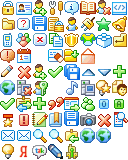
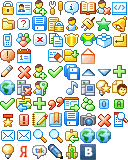
FIX: * пустые сообщения пр ивыключенном PEP * загрузка звука привлечения внимания * высота CheckBox * пропадающие сообщения в чате
ADD:
* профиль вконтакте

Changed region(s): [[0.625, 0.875, 0.75, 1.0]]

diff --git a/src/Client/Contact.java b/src/Client/Contact.java
@@ -362,11 +362,6 @@ public class Contact extends IconTextElement{
         
         chatInfo.addMessage(m);
         
-        if (group.type!=Groups.TYPE_TRANSP && group.type!=Groups.TYPE_SEARCH_RESULT) {
-          boolean allowLog = (origin<Constants.ORIGIN_GROUPCHAT);
-          if (origin!=Constants.ORIGIN_GROUPCHAT && this instanceof MucContact) allowLog=false;
-          if(allowLog) getML().storeMessage(m);
-        }
         
         if(chatInfo.opened || m.messageType == Constants.MESSAGE_TYPE_OUT) chatInfo.reEnumCounts();
         if (first_msgreplace){
@@ -374,12 +369,18 @@ public class Contact extends IconTextElement{
             if (null != messageList) {
                 getML().resetMessages();
                 getML().redraw();
-            } return;
+            } 
+        } else {
+		if (null != messageList) {
+		    getML().addMessage(m);
+		} else if (!chatInfo.isOnlyStatusMessage()) {
+		    getML().resetMessages();
+		}
         }
-        if (null != messageList) {
-            getML().addMessage(m);
-        } else if (!chatInfo.isOnlyStatusMessage()) {
-            getML().resetMessages();
+        if (group.type!=Groups.TYPE_TRANSP && group.type!=Groups.TYPE_SEARCH_RESULT) {
+          boolean allowLog = (origin<Constants.ORIGIN_GROUPCHAT);
+          if (origin!=Constants.ORIGIN_GROUPCHAT && this instanceof MucContact) allowLog=false;
+          if(allowLog) getML().storeMessage(m);
         }
     }
 

diff --git a/src/Account/AccountSelect.java b/src/Account/AccountSelect.java
@@ -79,6 +79,7 @@ public class AccountSelect
         Command cmdGTalk_HTTPS=new Command("Gtalk HTTPS", Command.SCREEN,16);            
         Command cmdLj=new Command("LiveJournal", Command.SCREEN,17);   
         Command cmdQip=new Command("QIP", Command.SCREEN,18);
+        Command cmdVk=new Command("Вконтакте", Command.SCREEN,19);
         
     
     Command cmdEdit;
@@ -181,6 +182,7 @@ public class AccountSelect
 //#            addInCommand(1,cmdGTalk_HTTPS); cmdGTalk_HTTPS.setImg(0x92);           
 //#            addInCommand(1,cmdLj); cmdLj.setImg(0x93);
 //#            addInCommand(1,cmdQip); cmdQip.setImg(0x94);
+//#            addInCommand(1,cmdVk); cmdVk.setImg(0x95);
 //#endif          
           
         if (accountList.isEmpty()==true) {
@@ -249,6 +251,9 @@ public class AccountSelect
 //#         }
 //#         if (c==cmdQip) {
 //#           new AccountForm(display, this, this, null,5,false,null);
+//#         }          
+//#         if (c==cmdVk) {
+//#           new AccountForm(display, this, this, null,7,false,null);
 //#         }          
 //#else   
         if (c==cmdAdd) {

diff --git a/src/Account/AccountForm.java b/src/Account/AccountForm.java
@@ -95,6 +95,7 @@ public class AccountForm
     private static final byte LJ_PROFILE=4;    
     private static final byte QIP_PROFILE=5;
     private static final byte GTALK_HTTPS_PROFILE=6;        
+    private static final byte VK_PROFILE=7;
     
     /** Creates a new instance of AccountForm */
 
@@ -147,6 +148,9 @@ public class AccountForm
                 break;
             case QIP_PROFILE:     
                 server="qip.ru";
+                break;
+            case VK_PROFILE:     
+                server="vk.com";
                 break;
           }
         }else{
@@ -330,6 +334,12 @@ public class AccountForm
                 break;
             case QIP_PROFILE:  
                 ip_box = "webim.qip.ru";
+                sslbox_ = false;
+                plainPwdbox_ = false;
+                compressionBox_ = true;                
+                break;
+            case VK_PROFILE:  
+                ip_box = "vkmessenger.com";
                 sslbox_ = false;
                 plainPwdbox_ = false;
                 compressionBox_ = true;                

diff --git a/src/xmpp/extensions/PepListener.java b/src/xmpp/extensions/PepListener.java
@@ -50,10 +50,10 @@
 //#    
 //#     StaticData sd = StaticData.getInstance();
 //#     Config cf = Config.getInstance();
-//#     
+//# 
 //#     /** Creates a new instance of PepListener */
 //#     public PepListener() { }
-//#     
+//#   
 //#     public void addBlockListener() {
 //#         sd.roster.theStream.addBlockListener(instance);
 //#     }
@@ -245,7 +245,7 @@
 //#                         c.pepTuneText=tune_.toString();
 //#                         msg = tune_.toString();
 //#                     }
-//#                     if(c.getChatInfo().getMessageCount()>0) c.addMessage(new Msg(Constants.MESSAGE_TYPE_PRESENCE, from, type, msg));
+//#                     if(msg!=null && msg.length()>0 && c.getChatInfo().getMessageCount()>0) c.addMessage(new Msg(Constants.MESSAGE_TYPE_PRESENCE, from, type, msg));
 //#                 }
 //#             }
 //#         //}

diff --git a/src/Client/ContactMessageList.java b/src/Client/ContactMessageList.java
@@ -92,7 +92,9 @@ public final class ContactMessageList extends VirtualList implements MenuListene
        return recordStore;
     }
     public void storeMessage(Msg msgObj) {
-       HistoryStorage.addText(contact, msgObj, this);
+	synchronized (this) {
+           HistoryStorage.addText(contact, msgObj, this);
+       }
     }
     public void getRmsData(int type, RecordStore rs){
       switch(type){
@@ -529,13 +531,7 @@ public final class ContactMessageList extends VirtualList implements MenuListene
     
     public void eventLongOk(){
         super.eventLongOk();
-//#ifndef WMUC
-        if (contact instanceof MucContact && contact.origin==Constants.ORIGIN_GROUPCHAT) {
-            checkOffline(); 
-            return;
-        }
-//#endif
-        keyGreen();
+	answer();
     }
     
     protected void keyClear(){

diff --git a/src/ui/controls/form/CheckBox.java b/src/ui/controls/form/CheckBox.java
@@ -159,20 +159,24 @@ public class CheckBox
     }    
 
     public int getVHeight(){ 
+        int h=0;
         Vector str=(Vector)checkBox.elementAt(0);
         if(state){
            if (str.size()<1) {
-             return fontHeight;
+             h = fontHeight;
            }else{
               if(toString().indexOf("%")>-1){
-                return fontHeight*(str.size() + 1);  
+                h = fontHeight*(str.size() + 1);  
               }else{
-                return fontHeight;   
+                h= fontHeight;   
               }
            }            
         }else{
-           return fontHeight;
+           h = fontHeight;
         }
+	if (h<il.getHeight()) h=il.getHeight();
+	if (h<8) h=8; //TODO: min height!!!
+	return h;
     }
 
     public boolean getValue() { return state; }

diff --git a/src/Info/Version.java b/src/Info/Version.java
@@ -32,7 +32,7 @@ import Client.Config;
 import locale.SR;
 
 public class Version { 
-    public static String version = "0.8.9(r90)" + midlet.BombusQD.cf.getStringProperty("build", "") ;
+    public static String version = "0.8.9(r91)" + midlet.BombusQD.cf.getStringProperty("build", "") ;
     public final static String NAME="BombusQD";
     public final static String BOMBUS_SITE_URL="http://bombusmod-qd.wen.ru";
 

diff --git a/src/Alerts/AlertCustomize.java b/src/Alerts/AlertCustomize.java
@@ -105,6 +105,7 @@ public class AlertCustomize {
 	    instance.loadStartUpSoundName();
 	    instance.loadOutgoingSoundName();
             instance.loadVIPSoundName();
+            instance.loadAttentionSoundName();
 	}
 	return instance;
     }
